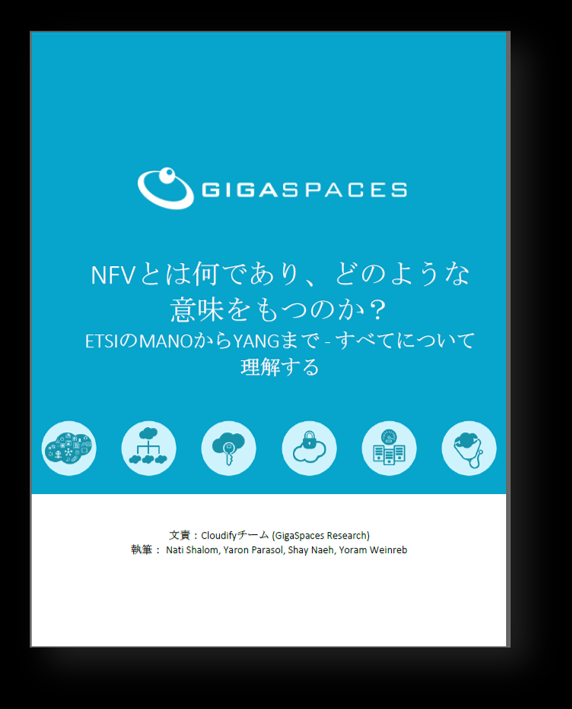
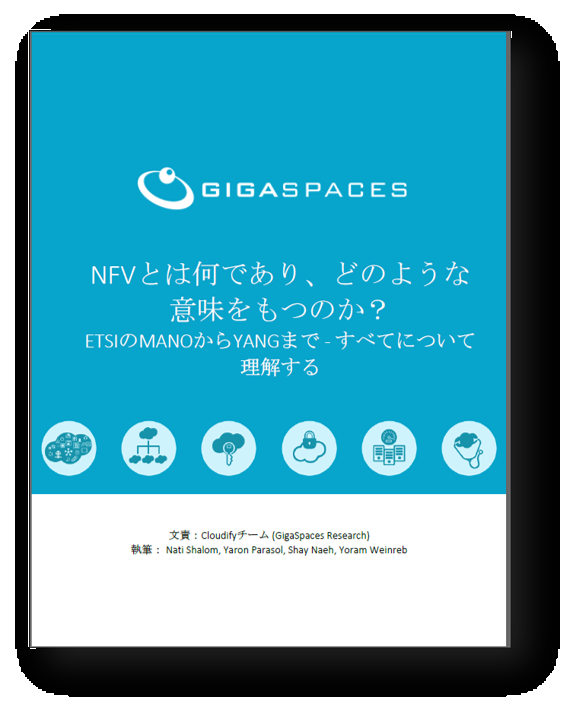
change img

Changed region(s): [[0.0, 0.0, 1.0, 1.0]]

diff --git a/source/_includes/menu_side_toc_jp.html b/source/_includes/menu_side_toc_jp.html
@@ -32,7 +32,7 @@
 
 <li class="widget">
 <div class="aligncenter">
-<a href="{{ site.baseurl }}/brochures/NFV White Paper April 2015 - JP.pdf" target="_blank" class="download" title="NFV White Paper April 2015"><img src="{{ site.baseurl }}/img/NFVWPJP.png" width="214" alt="NFV | Network Function Virtualization | SDN Platform"></a></div>
+<a href="{{ site.baseurl }}/brochures/NFV White Paper April 2015 - JP.pdf" target="_blank" class="download" title="NFV White Paper April 2015"><img src="{{ site.baseurl }}/img/NFVWP.png" width="214" alt="NFV | Network Function Virtualization | SDN Platform"></a></div>
 <h5 class="widgetheading">NFVとは何であり、どのような意味をもつのか？
 <br/>ETSIのMANOからYANGまで ‐ すべてについて理解する</h5></li>
 
